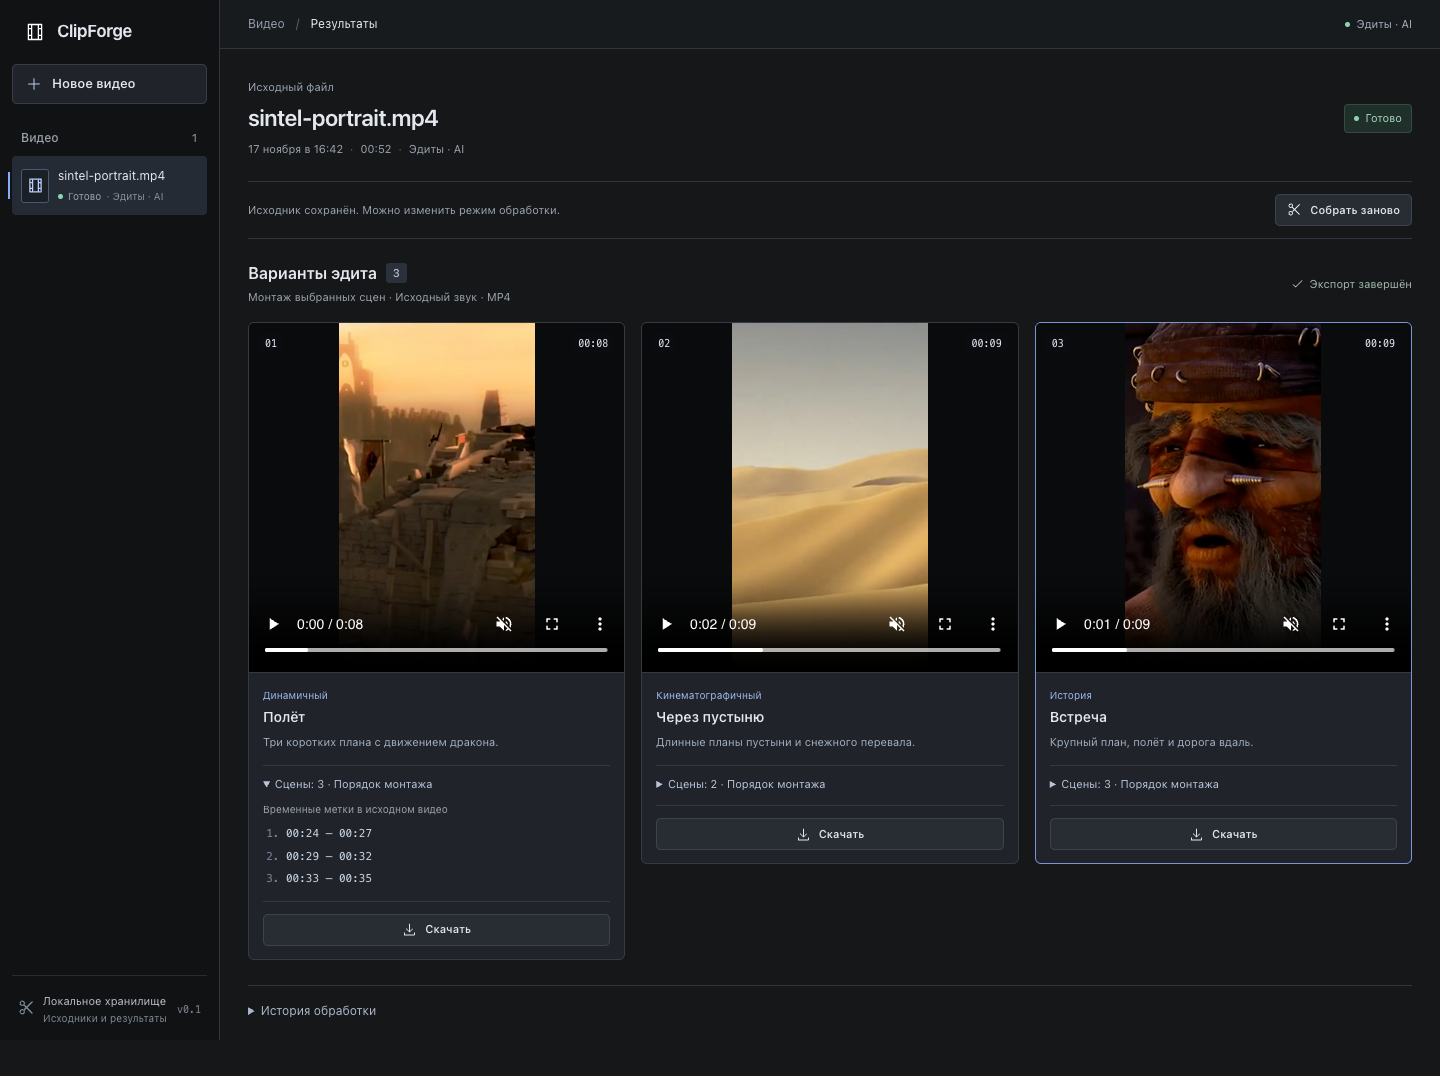
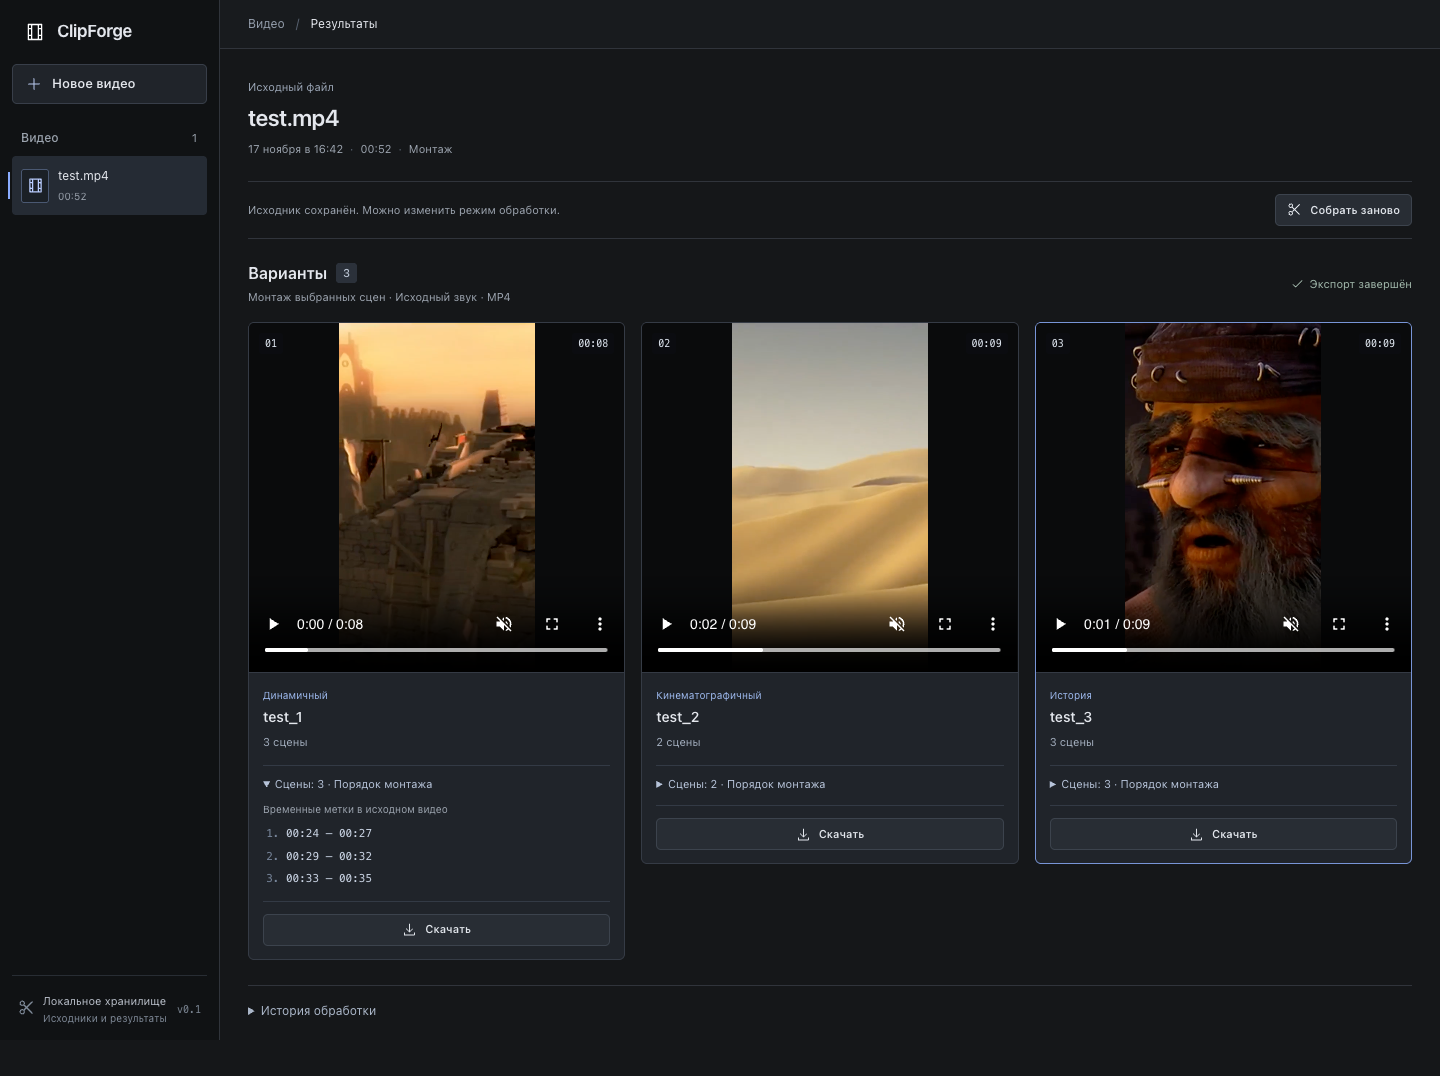
simplify labels

diff --git a/web/src/App.tsx b/web/src/App.tsx
@@ -4,7 +4,7 @@ import { Icon } from "./components/Icon";
 import { JobDetail, statusLabels } from "./components/JobDetail";
 import { Upload } from "./components/Upload";
 import type { Config, Job } from "./types";
-import { modeLabels } from "./modes";
+import { timestamp } from "./timing";
 
 function selectedJobID() {
   try {
@@ -173,13 +173,16 @@ export function App() {
                   <span className="history-filename" title={item.filename}>
                     {item.filename}
                   </span>
-                  <span className={`history-status status-${item.status}`}>
-                    <span className="status-dot" />
-                    {statusLabels[item.status]}
-                    <span className="history-mode">
-                      · {modeLabels[item.mode]}
+                  {item.status === "completed" ? (
+                    <span className="history-status">
+                      {timestamp(item.duration)}
                     </span>
-                  </span>
+                  ) : (
+                    <span className={`history-status status-${item.status}`}>
+                      <span className="status-dot" />
+                      {statusLabels[item.status]}
+                    </span>
+                  )}
                 </span>
                 {selectedID === item.id && (
                   <span className="history-selected-mark" />
@@ -216,16 +219,6 @@ export function App() {
             <span className="breadcrumb-separator">/</span>
             <span>{selectedID ? "Результаты" : "Новое видео"}</span>
           </div>
-          <span className="mode-label">
-            <span
-              className={`status-dot ${currentJob?.mode === "openai" || currentJob?.mode === "montage" ? "connected" : ""}`}
-            />
-            {currentJob
-              ? modeLabels[currentJob.mode]
-              : config
-                ? "Выбор режима"
-                : "Подключение"}
-          </span>
         </header>
         <main id="main-content" tabIndex={-1}>
           {!config ? (

diff --git a/web/src/styles.css b/web/src/styles.css
@@ -261,13 +261,6 @@ main:focus {
   color: var(--muted);
 }
 
-.history-mode {
-  white-space: nowrap;
-  overflow: hidden;
-  text-overflow: ellipsis;
-  color: #89919f;
-}
-
 .status-dot {
   display: inline-block;
   flex-shrink: 0;
@@ -275,10 +268,6 @@ main:focus {
   height: 5px;
   border-radius: 50%;
   background: #858e9b;
-}
-
-.status-completed .status-dot, .status-dot.connected {
-  background: var(--green);
 }
 
 .status-running .status-dot, .status-queued .status-dot {
@@ -366,15 +355,6 @@ main:focus {
 
 .breadcrumb-separator {
   color: #576170;
-}
-
-.mode-label {
-  display: inline-flex;
-  align-items: center;
-  gap: 7px;
-  color: #a5afbd;
-  white-space: nowrap;
-  font-size: 11px;
 }
 
 main {
@@ -1514,7 +1494,7 @@ progress::-moz-progress-bar {
   .brand {
     font-size: 16px;
   }
-  .history-file-icon, .history-mode, .version {
+  .history-file-icon, .version {
     display: none;
   }
   .upload-workspace {
@@ -1616,9 +1596,6 @@ progress::-moz-progress-bar {
   }
   .topbar > div {
     gap: 7px;
-  }
-  .mode-label {
-    font-size: 10px;
   }
   main {
     padding: 22px 16px 32px;

diff --git a/web/src/components/JobDetail.tsx b/web/src/components/JobDetail.tsx
@@ -190,10 +190,12 @@ export function JobDetail({
             <span>·</span> {modeLabels[job.mode]}
           </p>
         </div>
-        <span className={`status-pill status-${job.status}`}>
-          <span className="status-dot" />
-          {statusLabels[job.status]}
-        </span>
+        {job.status !== "completed" && (
+          <span className={`status-pill status-${job.status}`}>
+            <span className="status-dot" />
+            {statusLabels[job.status]}
+          </span>
+        )}
       </div>
       {job.mode === "demo" && <DemoNotice />}
       {active && (
@@ -339,7 +341,7 @@ export function JobDetail({
         <div className="section-heading">
           <div>
             <h2>
-              {montage ? "Варианты эдита" : "Фрагменты"}{" "}
+              {montage ? "Варианты" : "Фрагменты"}{" "}
               <span className="count">
                 {clips.length}
               </span>

diff --git a/web/src/components/Upload.tsx b/web/src/components/Upload.tsx
@@ -216,7 +216,7 @@ export function Upload({
             ? "Для анализа речи подойдёт интервью, лекция или разговор с одной основной речевой дорожкой."
             : mode === "split"
               ? "Нарезка по времени не анализирует содержание. После экспорта границы каждого фрагмента можно изменить."
-              : "Демо проверяет экспорт и субтитры. Для распознавания настоящей речи выберите режим «По речи · AI»."}
+              : "Демо проверяет экспорт и субтитры. Для распознавания настоящей речи выберите режим «По речи»."}
       </p>
     </section>
   );

diff --git a/web/src/modes.test.ts b/web/src/modes.test.ts
@@ -6,7 +6,7 @@ test("montage stays selected when AI is not configured", () => {
   const available = availableModes({ available_modes: ["split", "demo"] });
   assert.equal(initialMode(), "montage");
   assert.equal(available.includes(initialMode()), false);
-  assert.equal(modeLabels.montage, "Эдиты · AI");
+  assert.equal(modeLabels.montage, "Монтаж");
 });
 
 test("montage is enabled only by server availability", () => {

diff --git a/web/src/modes.ts b/web/src/modes.ts
@@ -1,9 +1,9 @@
 import type { Config, Mode } from "./types";
 
 export const modeLabels: Record<Mode, string> = {
-  montage: "Эдиты · AI",
+  montage: "Монтаж",
   split: "По времени",
-  openai: "По речи · AI",
+  openai: "По речи",
   demo: "Демо",
 };
 
